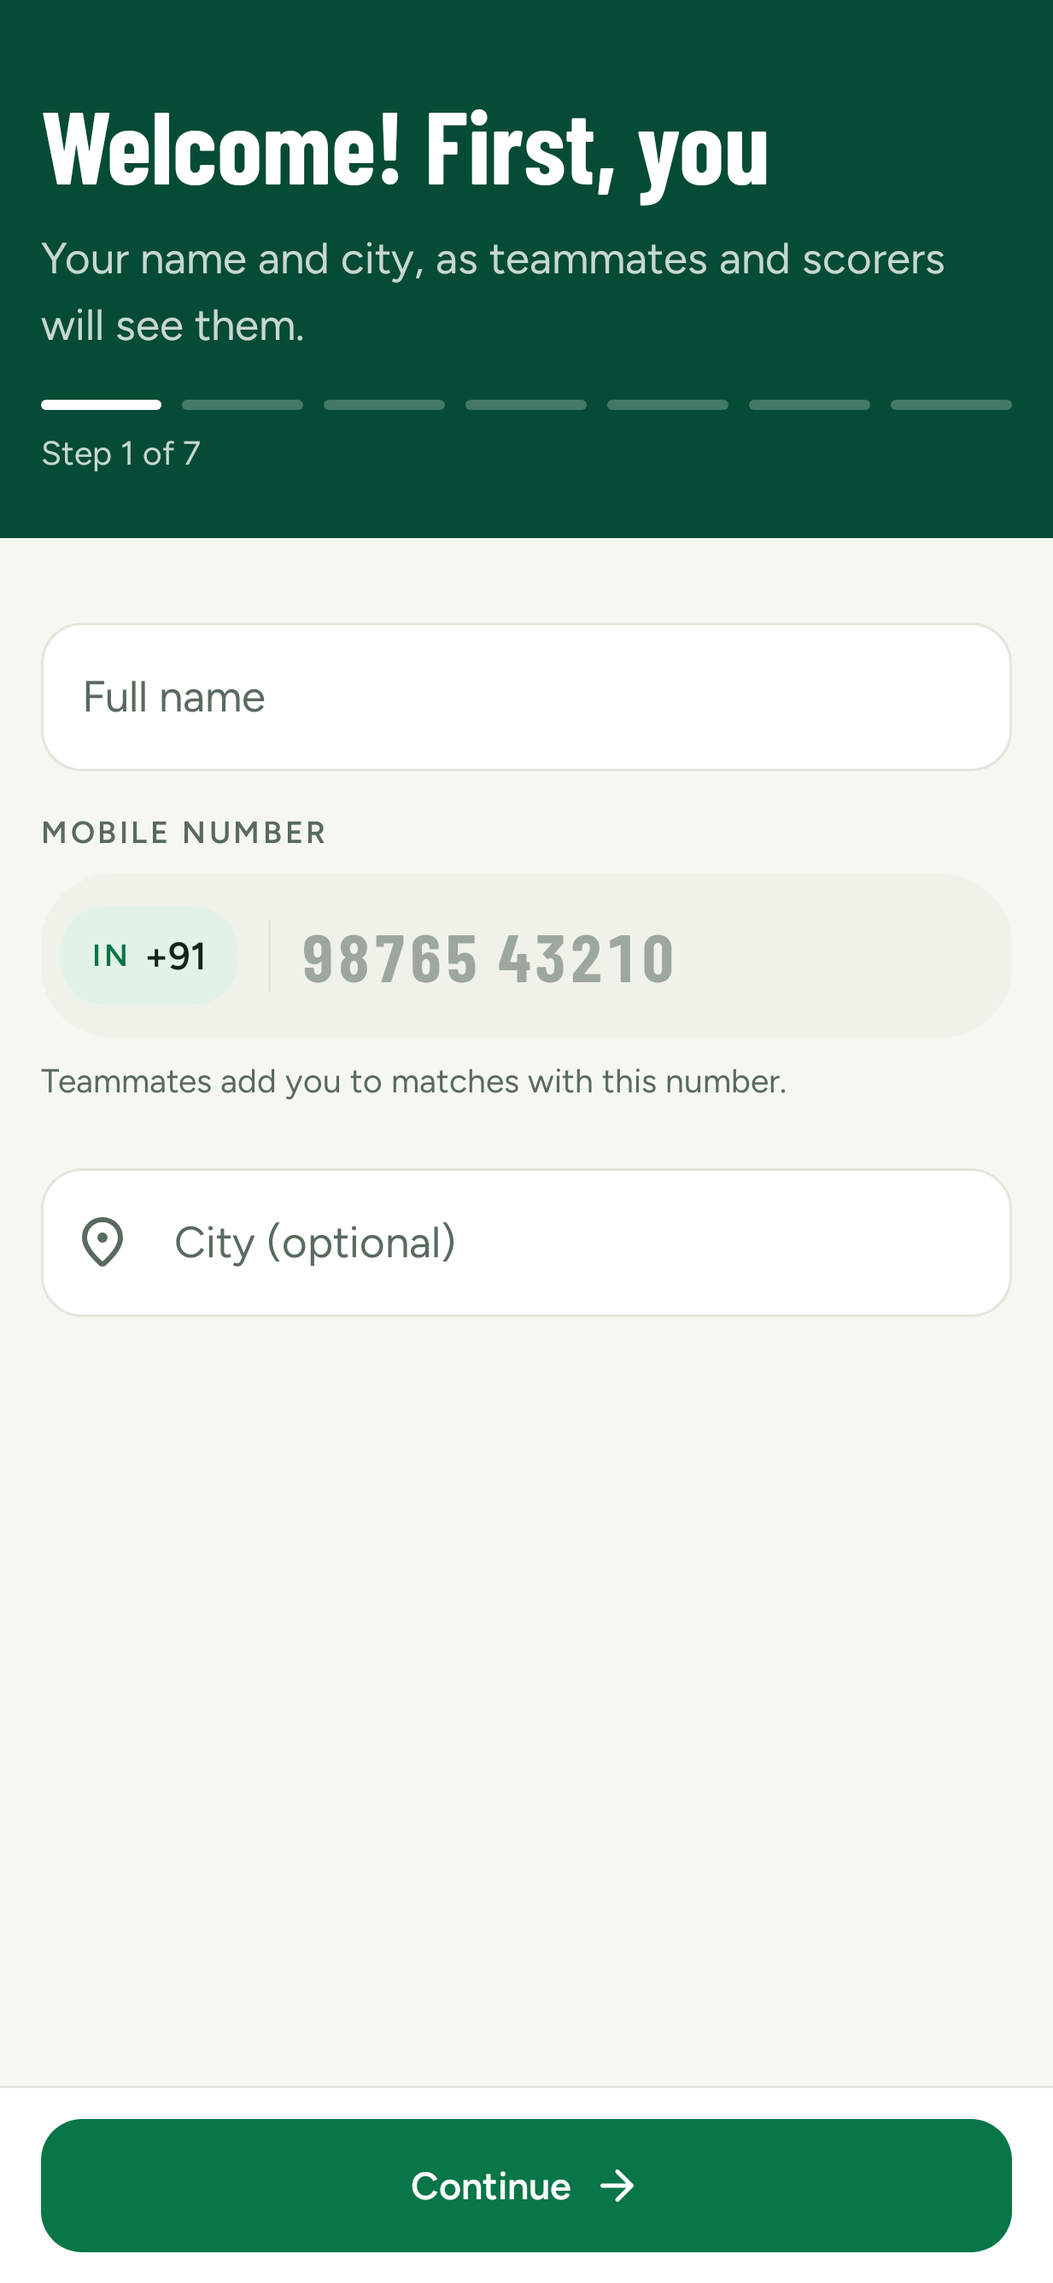
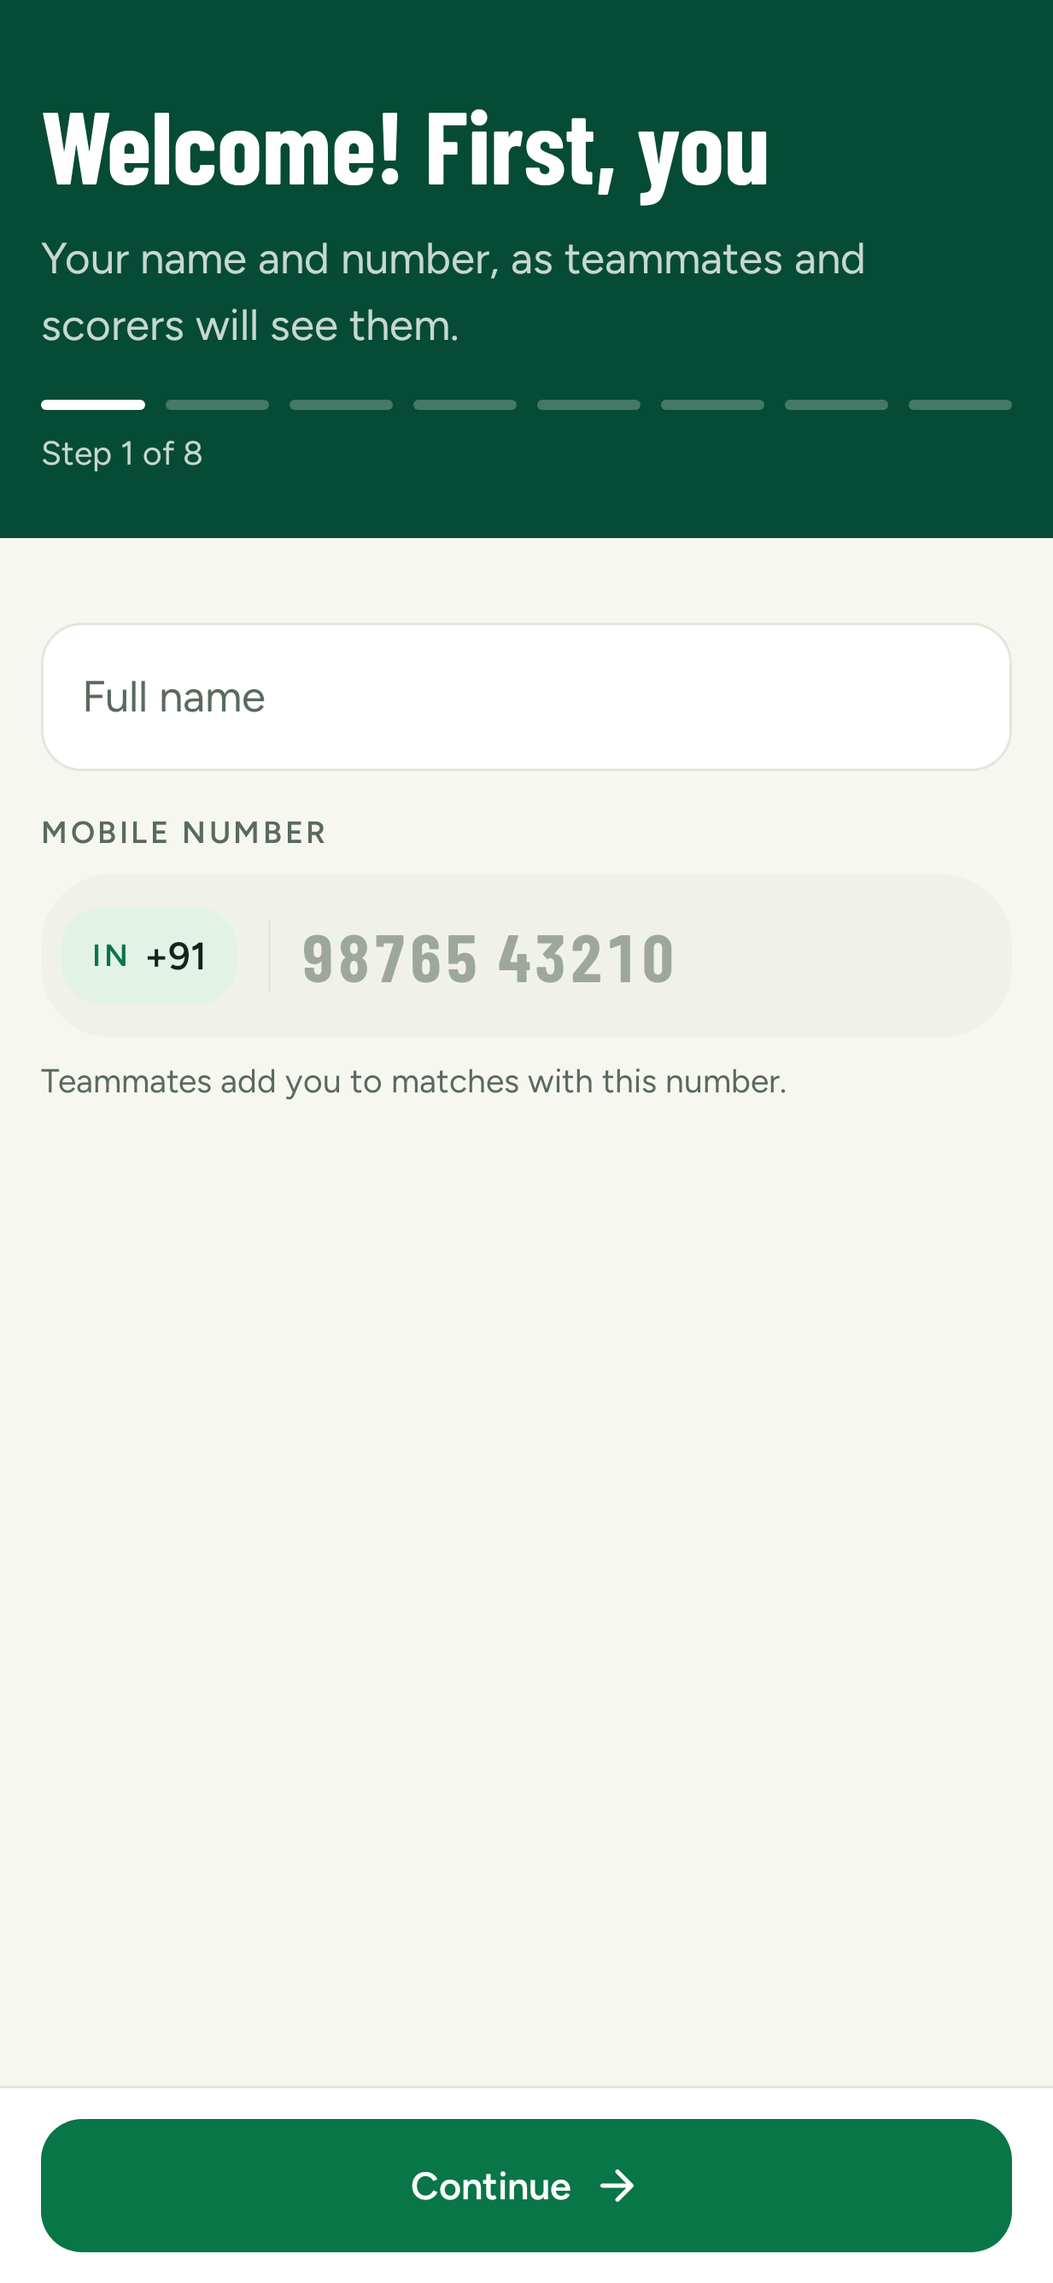
Ask for the city on its own onboarding page, with popular cities to tap
Onboarding now has a "Where do you play?" step after name and number. Before
anything is typed it lists the biggest cities (the server now answers an empty
/cities query with them); typing narrows to matches as before. Switching
between popular cities and matches clears the list straight away, so a quick
tap can't pick a stale city.

diff --git a/app/shared/src/androidHostTest/kotlin/com/harsh/desicrics/OnboardingCityTest.kt b/app/shared/src/androidHostTest/kotlin/com/harsh/desicrics/OnboardingCityTest.kt
@@ -1,0 +1,103 @@
+package com.harsh.desicrics
+
+import androidx.compose.runtime.getValue
+import androidx.compose.runtime.mutableStateOf
+import androidx.compose.runtime.setValue
+import androidx.compose.ui.test.junit4.createComposeRule
+import androidx.compose.ui.test.onNodeWithText
+import androidx.compose.ui.test.performClick
+import androidx.compose.ui.test.performTextClearance
+import androidx.compose.ui.test.performTextInput
+import androidx.test.ext.junit.runners.AndroidJUnit4
+import com.harsh.desicrics.data.CityRepository
+import com.harsh.desicrics.data.api.ApiConfig
+import com.harsh.desicrics.data.api.DesiCricsApi
+import com.harsh.desicrics.designsystem.theme.DesiTheme
+import com.harsh.desicrics.ui.onboarding.OnboardingActions
+import com.harsh.desicrics.ui.onboarding.OnboardingContent
+import com.harsh.desicrics.ui.onboarding.OnboardingStep
+import com.harsh.desicrics.ui.onboarding.OnboardingUiState
+import com.harsh.desicrics.ui.profile.ProfileFormState
+import io.ktor.client.HttpClient
+import io.ktor.client.engine.mock.MockEngine
+import io.ktor.client.engine.mock.respond
+import io.ktor.client.plugins.contentnegotiation.ContentNegotiation
+import io.ktor.http.ContentType
+import io.ktor.http.HttpHeaders
+import io.ktor.http.headersOf
+import io.ktor.serialization.kotlinx.json.json
+import kotlinx.serialization.json.Json
+import org.junit.After
+import org.junit.Before
+import org.junit.Rule
+import org.junit.Test
+import org.junit.runner.RunWith
+import org.koin.core.context.startKoin
+import org.koin.core.context.stopKoin
+import org.koin.dsl.module
+import org.robolectric.annotation.Config
+import kotlin.test.assertEquals
+
+/** The onboarding city step lists popular cities before anything's typed, then matches as you type; tapping one fills it in. */
+@RunWith(AndroidJUnit4::class)
+@Config(sdk = [36])
+class OnboardingCityTest {
+
+    @get:Rule
+    val compose = createComposeRule()
+
+    @Before
+    fun setUp() {
+        val http = HttpClient(MockEngine { request ->
+            val body = if (request.url.parameters["q"].isNullOrBlank()) {
+                """[{"name":"Mumbai","state":"Maharashtra"},{"name":"Delhi","state":"Delhi"}]"""
+            } else {
+                """[{"name":"Aurangabad","state":"Maharashtra"}]"""
+            }
+            respond(body, headers = headersOf(HttpHeaders.ContentType, ContentType.Application.Json.toString()))
+        }) { install(ContentNegotiation) { json(Json { ignoreUnknownKeys = true }) } }
+        val config = ApiConfig("http://test")
+        startKoin { modules(module { single { config }; single { CityRepository(DesiCricsApi(http, { null }, config)) } }) }
+    }
+
+    @After
+    fun tearDown() = stopKoin()
+
+    @Test
+    fun listsPopularCitiesBeforeTyping() {
+        var form by mutableStateOf(ProfileFormState(loading = false, name = "Rohan"))
+        compose.setContent {
+            DesiTheme(darkTheme = false) {
+                OnboardingContent(form, OnboardingUiState(step = OnboardingStep.CITY), OnboardingActions(onUpdate = { form = it(form) }))
+            }
+        }
+        compose.waitUntil(5_000) { compose.onAllNodesWithTextExists("Popular cities") }
+        compose.onNodeWithText("Delhi").performClick()
+        compose.waitForIdle()
+        assertEquals("Delhi", form.city)
+        assertEquals(false, compose.onAllNodesWithTextExists("Popular cities"))
+    }
+
+    @Test
+    fun suggestsCities() {
+        var form by mutableStateOf(ProfileFormState(loading = false, name = "Rohan"))
+        compose.setContent {
+            DesiTheme(darkTheme = false) {
+                OnboardingContent(form, OnboardingUiState(step = OnboardingStep.CITY), OnboardingActions(onUpdate = { form = it(form) }))
+            }
+        }
+        compose.onNodeWithText("City (optional)").performClick()
+        compose.onNodeWithText("City (optional)").performTextInput("Aura")
+        compose.waitUntil(5_000) { compose.onAllNodesWithTextExists("Maharashtra") }
+        compose.onNodeWithText("Maharashtra").performClick()
+        compose.waitForIdle()
+        assertEquals("Aurangabad", form.city)
+        // Cleared again: back to popular cities, never the old matches under that heading.
+        compose.onNodeWithText("Aurangabad").performTextClearance()
+        assertEquals(false, compose.onAllNodesWithTextExists("Aurangabad"))
+        compose.waitUntil(5_000) { compose.onAllNodesWithTextExists("Mumbai") }
+    }
+
+    private fun androidx.compose.ui.test.junit4.ComposeContentTestRule.onAllNodesWithTextExists(text: String) =
+        onAllNodes(androidx.compose.ui.test.hasText(text)).fetchSemanticsNodes().isNotEmpty()
+}

diff --git a/app/shared/src/commonMain/kotlin/com/harsh/desicrics/ui/onboarding/OnboardingScreen.kt b/app/shared/src/commonMain/kotlin/com/harsh/desicrics/ui/onboarding/OnboardingScreen.kt
@@ -76,6 +76,7 @@ import com.harsh.desicrics.ui.profile.AboutSection
 import com.harsh.desicrics.ui.profile.EditProfileViewModel
 import com.harsh.desicrics.ui.profile.GameSection
 import com.harsh.desicrics.ui.profile.ProfileFormError
+import com.harsh.desicrics.ui.profile.ProfileCityField
 import com.harsh.desicrics.ui.profile.ProfileFormState
 import com.harsh.desicrics.ui.system.LightStatusBarIcons
 import com.harsh.desicrics.ui.system.rememberImagePicker
@@ -87,8 +88,8 @@ import org.jetbrains.compose.resources.stringResource
 import org.koin.compose.viewmodel.koinViewModel
 
 /**
- * First run after sign-up, one question per screen: the profile over two steps (saved on leaving the
- * second), then a photo, claiming past matches, a team, people to follow and notifications, each of
+ * First run after sign-up, one question per screen: the profile over three steps (saved on leaving the
+ * third), then a photo, claiming past matches, a team, people to follow and notifications, each of
  * which can be skipped. [joinCode] comes from a team link the app was opened with; [onJoinedFromLink]
  * clears that link once it's used here. The view models are keyed to the account, so signing out and
  * up again as someone else starts afresh.
@@ -114,7 +115,7 @@ fun OnboardingScreen(uid: String, joinCode: String?, onJoinedFromLink: () -> Uni
             onUpdate = profile::update,
             onContinue = {
                 when (state.step) {
-                    OnboardingStep.ABOUT -> if (profile.check()) viewModel.next()
+                    OnboardingStep.ABOUT, OnboardingStep.CITY -> if (profile.check()) viewModel.next()
                     OnboardingStep.GAME -> profile.save {
                         viewModel.loadSuggestions(profile.state.value.city)
                         viewModel.next()
@@ -193,7 +194,8 @@ fun OnboardingContent(form: ProfileFormState, state: OnboardingUiState, actions:
                     verticalArrangement = Arrangement.spacedBy(DesiTheme.space.s6),
                 ) {
                     when (step) {
-                        OnboardingStep.ABOUT -> AboutSection(form, actions.onUpdate, titled = false)
+                        OnboardingStep.ABOUT -> AboutSection(form, actions.onUpdate, titled = false, withCity = false)
+                        OnboardingStep.CITY -> ProfileCityField(form, actions.onUpdate, popularWhenEmpty = true)
                         OnboardingStep.GAME -> GameStep(form, actions)
                         OnboardingStep.PHOTO -> PhotoStep(form, actions)
                         OnboardingStep.CLAIM -> ClaimStep(state, actions)
@@ -455,6 +457,7 @@ private fun BottomBar(form: ProfileFormState, state: OnboardingUiState, isLast: 
     val step = state.step
     val done = when (step) {
         OnboardingStep.ABOUT, OnboardingStep.GAME -> true
+        OnboardingStep.CITY -> form.city.isNotBlank()
         OnboardingStep.PHOTO -> form.photoUrl != null
         OnboardingStep.CLAIM -> state.claimed != null
         OnboardingStep.TEAM -> state.teamName != null || state.requestedTeams.isNotEmpty()
@@ -499,6 +502,7 @@ private fun BottomBar(form: ProfileFormState, state: OnboardingUiState, isLast: 
 private val OnboardingStep.title: StringResource
     get() = when (this) {
         OnboardingStep.ABOUT -> Res.string.onboarding_about_title
+        OnboardingStep.CITY -> Res.string.onboarding_city_title
         OnboardingStep.GAME -> Res.string.onboarding_game_title
         OnboardingStep.PHOTO -> Res.string.onboarding_photo_title
         OnboardingStep.CLAIM -> Res.string.onboarding_claim_title
@@ -510,6 +514,7 @@ private val OnboardingStep.title: StringResource
 private val OnboardingStep.subtitle: StringResource
     get() = when (this) {
         OnboardingStep.ABOUT -> Res.string.onboarding_about_subtitle
+        OnboardingStep.CITY -> Res.string.onboarding_city_subtitle
         OnboardingStep.GAME -> Res.string.onboarding_game_subtitle
         OnboardingStep.PHOTO -> Res.string.onboarding_photo_subtitle
         OnboardingStep.CLAIM -> Res.string.onboarding_claim_subtitle
@@ -550,6 +555,7 @@ private fun StepPreview(step: OnboardingStep, dark: Boolean = false) = DesiTheme
 }
 
 @Preview @Composable private fun OnboardingAboutPreview() = StepPreview(OnboardingStep.ABOUT)
+@Preview @Composable private fun OnboardingCityPreview() = StepPreview(OnboardingStep.CITY)
 @Preview @Composable private fun OnboardingGamePreview() = StepPreview(OnboardingStep.GAME)
 @Preview @Composable private fun OnboardingGameDarkPreview() = StepPreview(OnboardingStep.GAME, dark = true)
 @Preview @Composable private fun OnboardingPhotoPreview() = StepPreview(OnboardingStep.PHOTO)

diff --git a/app/shared/src/commonMain/kotlin/com/harsh/desicrics/ui/components/CityField.kt b/app/shared/src/commonMain/kotlin/com/harsh/desicrics/ui/components/CityField.kt
@@ -5,6 +5,7 @@ import androidx.compose.foundation.relocation.BringIntoViewRequester
 import androidx.compose.foundation.relocation.bringIntoViewRequester
 import androidx.compose.foundation.layout.Column
 import androidx.compose.foundation.text.KeyboardOptions
+import androidx.compose.material3.Text
 import androidx.compose.runtime.Composable
 import androidx.compose.runtime.LaunchedEffect
 import androidx.compose.runtime.getValue
@@ -26,7 +27,10 @@ import com.harsh.desicrics.designsystem.icon.DesiIcons
 import com.harsh.desicrics.designsystem.theme.DesiTheme
 import kotlinx.coroutines.CancellationException
 import kotlinx.coroutines.delay
+import com.harsh.desicrics.resources.Res
+import com.harsh.desicrics.resources.city_popular
 import org.jetbrains.compose.resources.DrawableResource
+import org.jetbrains.compose.resources.stringResource
 import org.koin.mp.KoinPlatform
 
 /** Where suggestions come from: the server's city list, or nothing where there's no app to ask (previews). */
@@ -38,7 +42,8 @@ private fun defaultSuggest(): suspend (String) -> List<CitySuggestion> {
 /**
  * A city, typed freely, with matching cities from the list underneath as you type. Picking one fills in its
  * standard spelling; anything else is kept as typed (the server tidies known names either way). Suggestions
- * only show while the field has focus, and never for a city that's already exactly picked.
+ * only show while the field has focus, and never for a city that's already exactly picked. With [popularWhenEmpty],
+ * an empty field lists the biggest cities to tap instead, focused or not, for a screen that's only there to ask.
  */
 @Composable
 fun CityField(
@@ -50,19 +55,24 @@ fun CityField(
     supportingText: String? = null,
     error: String? = null,
     imeAction: ImeAction = ImeAction.Done,
+    popularWhenEmpty: Boolean = false,
     suggest: suspend (String) -> List<CitySuggestion> = remember { defaultSuggest() },
 ) {
     var focused by remember { mutableStateOf(false) }
     var suggestions by remember { mutableStateOf(emptyList<CitySuggestion>()) }
+    var suggestionsArePopular by remember { mutableStateOf(false) }
     val suggestionsInView = remember { BringIntoViewRequester() }
     LaunchedEffect(value, focused) {
         val query = value.trim()
-        if (!focused || query.length < MIN_QUERY) {
+        val popular = popularWhenEmpty && query.isEmpty()
+        // Popular cities aren't matches (nor matches popular), so a switch between them clears the list at once.
+        if (popular != suggestionsArePopular) suggestions = emptyList()
+        if (!popular && (!focused || query.length < MIN_QUERY)) {
             suggestions = emptyList()
             return@LaunchedEffect
         }
         // Wait for a pause in typing before asking.
-        delay(DEBOUNCE_MS)
+        if (!popular) delay(DEBOUNCE_MS)
         suggestions = try {
             suggest(query)
         } catch (e: CancellationException) {
@@ -71,9 +81,11 @@ fun CityField(
             // No suggestions offline; the city can still be typed.
             emptyList()
         }
+        suggestionsArePopular = popular
     }
     // Once a city is picked (or typed exactly), the list has done its job.
     val shown = if (suggestions.any { it.name == value.trim() }) emptyList() else suggestions
+    val popular = popularWhenEmpty && value.isBlank()
     Column(modifier, verticalArrangement = Arrangement.spacedBy(DesiTheme.space.s2)) {
         DesiTextField(
             value = value,
@@ -85,7 +97,10 @@ fun CityField(
             error = error,
             keyboardOptions = KeyboardOptions(capitalization = KeyboardCapitalization.Words, imeAction = imeAction),
         )
-        if (focused && shown.isNotEmpty()) {
+        if ((focused || popular) && shown.isNotEmpty()) {
+            if (popular) {
+                Text(stringResource(Res.string.city_popular), style = DesiTheme.type.caption, color = DesiTheme.colors.muted)
+            }
             // Fields low on a screen would leave the list under the keyboard.
             LaunchedEffect(shown) { suggestionsInView.bringIntoView() }
             CitySuggestions(shown, Modifier.bringIntoViewRequester(suggestionsInView), onPick = {

diff --git a/app/shared/src/commonMain/kotlin/com/harsh/desicrics/ui/profile/EditProfileScreen.kt b/app/shared/src/commonMain/kotlin/com/harsh/desicrics/ui/profile/EditProfileScreen.kt
@@ -163,7 +163,12 @@ private fun Header(state: ProfileFormState, isOnboarding: Boolean, onBack: (() -
 }
 
 @Composable
-internal fun AboutSection(state: ProfileFormState, onUpdate: ((ProfileFormState) -> ProfileFormState) -> Unit, titled: Boolean = true) {
+internal fun AboutSection(
+    state: ProfileFormState,
+    onUpdate: ((ProfileFormState) -> ProfileFormState) -> Unit,
+    titled: Boolean = true,
+    withCity: Boolean = true,
+) {
     val prefix = stringResource(Res.string.common_phone_prefix)
     val invalid = (state.error as? ProfileFormError.Invalid)?.error
 
@@ -193,14 +198,25 @@ internal fun AboutSection(state: ProfileFormState, onUpdate: ((ProfileFormState)
                 color = DesiTheme.colors.muted,
             )
         }
-        CityField(
-            value = state.city,
-            onValueChange = { value -> onUpdate { it.copy(city = value) } },
-            label = stringResource(Res.string.profile_city_label),
-            leadingIcon = DesiIcons.Location,
-            error = invalid?.takeIf { it == ProfileError.CITY_TOO_LONG }?.let { stringResource(it.label) },
-        )
+        if (withCity) ProfileCityField(state, onUpdate)
     }
+}
+
+@Composable
+internal fun ProfileCityField(
+    state: ProfileFormState,
+    onUpdate: ((ProfileFormState) -> ProfileFormState) -> Unit,
+    popularWhenEmpty: Boolean = false,
+) {
+    val invalid = (state.error as? ProfileFormError.Invalid)?.error
+    CityField(
+        value = state.city,
+        onValueChange = { value -> onUpdate { it.copy(city = value) } },
+        label = stringResource(Res.string.profile_city_label),
+        leadingIcon = DesiIcons.Location,
+        error = invalid?.takeIf { it == ProfileError.CITY_TOO_LONG }?.let { stringResource(it.label) },
+        popularWhenEmpty = popularWhenEmpty,
+    )
 }
 
 @Composable

diff --git a/app/shared/src/commonMain/kotlin/com/harsh/desicrics/ui/onboarding/OnboardingViewModel.kt b/app/shared/src/commonMain/kotlin/com/harsh/desicrics/ui/onboarding/OnboardingViewModel.kt
@@ -18,11 +18,11 @@ import kotlinx.coroutines.flow.update
 import kotlinx.coroutines.launch
 
 /**
- * The onboarding steps in order. The first two build the profile, which is saved on leaving [GAME]; the
- * rest need it and can each be skipped. [CLAIM], [FOLLOW] and [NOTIFY] only show when they have something
+ * The onboarding steps in order. The first three build the profile, which is saved on leaving [GAME]; the
+ * rest need it and can each be skipped, as can [CITY]. [CLAIM], [FOLLOW] and [NOTIFY] only show when they have something
  * to offer.
  */
-enum class OnboardingStep { ABOUT, GAME, PHOTO, CLAIM, TEAM, FOLLOW, NOTIFY }
+enum class OnboardingStep { ABOUT, CITY, GAME, PHOTO, CLAIM, TEAM, FOLLOW, NOTIFY }
 
 /** Something to follow in the player's city, and whether they've ticked it. */
 data class Suggestion(val type: FollowType, val id: String, val name: String, val subtitle: String, val photoUrl: String?, val following: Boolean = false)

diff --git a/server/src/main/kotlin/com/harsh/desicrics/cities/Cities.kt b/server/src/main/kotlin/com/harsh/desicrics/cities/Cities.kt
@@ -28,10 +28,12 @@ class Cities(cities: List<City>) {
 
     /**
      * Cities matching what's been typed: names starting with it first, then other names starting with it,
-     * then names with a word starting with it. Bigger cities first within each.
+     * then names with a word starting with it. Bigger cities first within each. Nothing typed yet gives the
+     * biggest cities, to pick from without typing.
      */
     fun suggest(query: String, limit: Int = CitySuggestion.LIMIT): List<CitySuggestion> {
         val q = key(query)
+        if (q.isEmpty()) return byPopulation.take(limit).map { CitySuggestion(it.name, it.state) }
         if (q.length < MIN_QUERY) return emptyList()
         fun rank(city: City): Int? = when {
             key(city.name).startsWith(q) -> 0

diff --git a/core/src/commonMain/kotlin/com/harsh/desicrics/api/CitiesApi.kt b/core/src/commonMain/kotlin/com/harsh/desicrics/api/CitiesApi.kt
@@ -4,7 +4,8 @@ import kotlinx.serialization.Serializable
 
 // Cities.
 //
-//   GET    /cities?q=                         → List<CitySuggestion>, best match first, at most CitySuggestion.LIMIT
+//   GET    /cities?q=                         → List<CitySuggestion>, best match first, at most CitySuggestion.LIMIT;
+//                                                 the biggest cities when q is empty
 //
 // Cities are still free text: anything not in the list is kept as typed. The server saves the standard
 // name of a city it knows ("Bombay" → "Mumbai"), so everyone's city is spelled the same.

diff --git a/server/src/test/kotlin/com/harsh/desicrics/CitiesTest.kt b/server/src/test/kotlin/com/harsh/desicrics/CitiesTest.kt
@@ -51,6 +51,8 @@ class CitiesTest {
         // The same name in two states: both, the bigger one first.
         assertEquals(listOf("Maharashtra", "Bihar"), cities.suggest("aurangabad").filter { it.name == "Aurangabad" }.map { it.state })
         assertTrue(cities.suggest("m").isEmpty())
+        assertEquals("Mumbai", cities.suggest("").first().name)
+        assertEquals(CitySuggestion.LIMIT, cities.suggest(" ").size)
         assertTrue(cities.suggest("ma").size <= CitySuggestion.LIMIT)
     }
 
